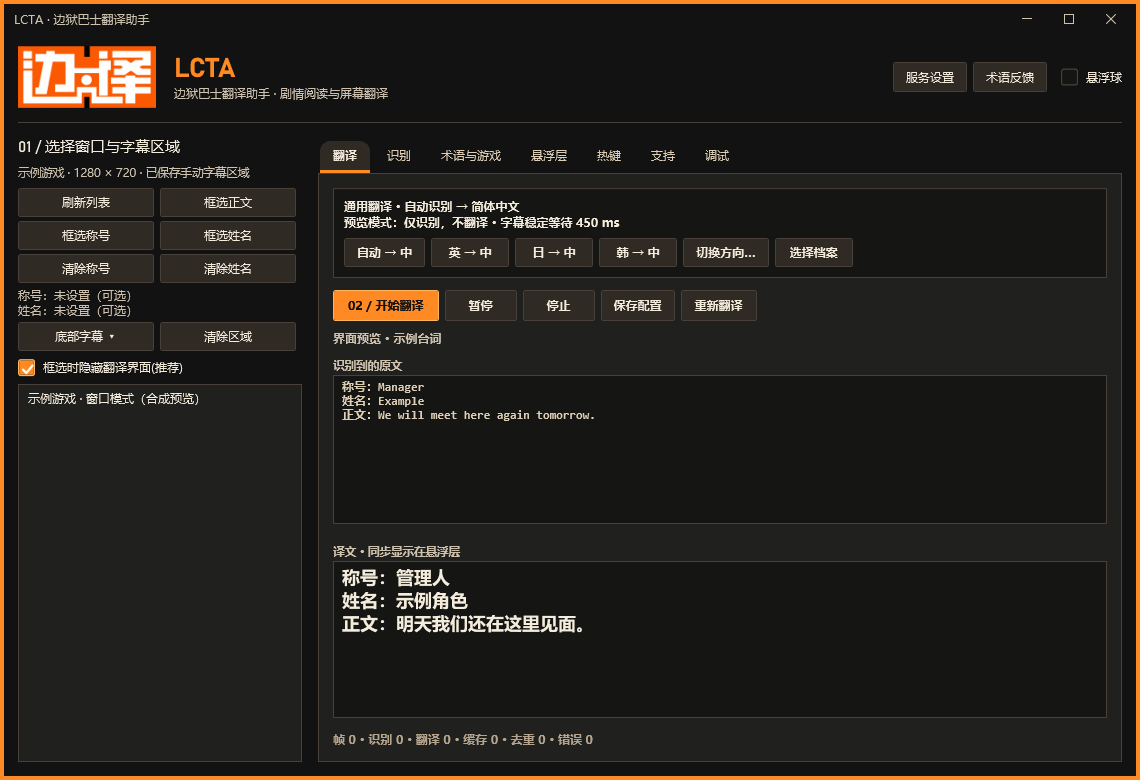
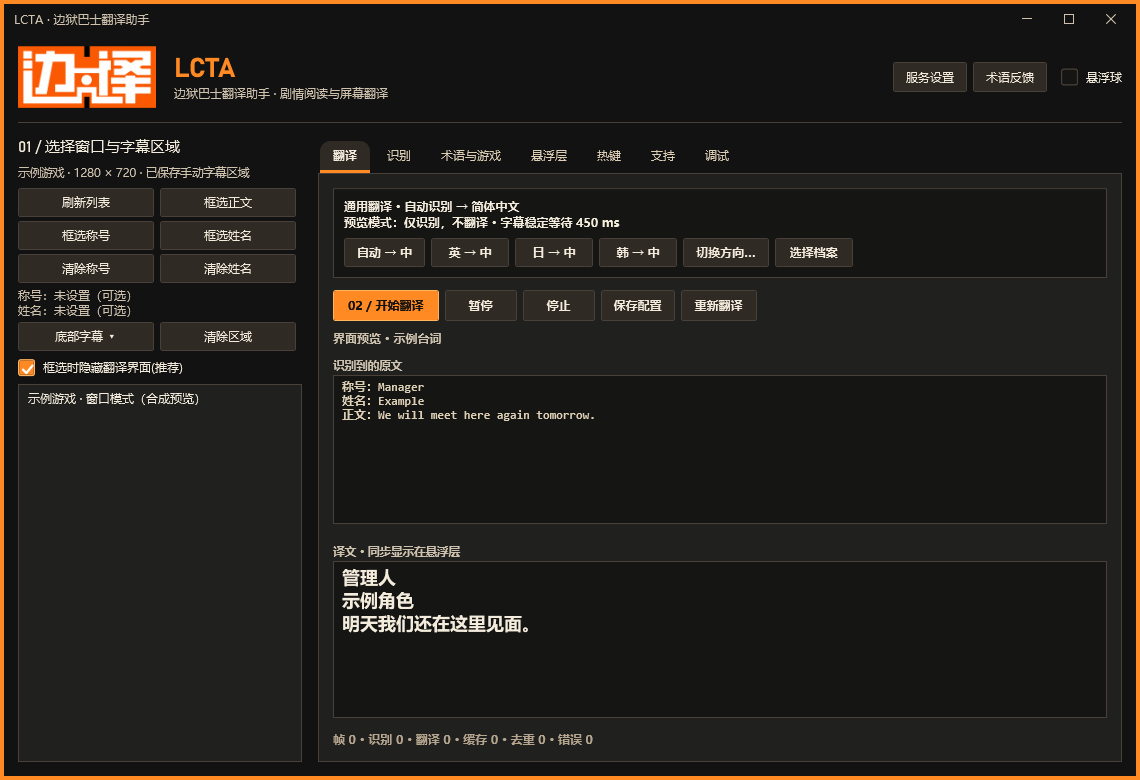
Fix legacy role splitting and remove labels from translated output

Changed region(s): [[0.2763, 0.7077, 0.5219, 0.8308]]

diff --git a/tools/Regression/DialogueFieldChecks.cs b/tools/Regression/DialogueFieldChecks.cs
@@ -31,6 +31,14 @@ internal static class DialogueFieldChecks
         Program.Check(DialogueFields.Format("管理人", "但丁", "测试台词") == "称号：管理人\n姓名：但丁\n正文：测试台词", "fields: explicit three-line output");
         Program.Check(DialogueFields.Format("", "", "网页正文") == "网页正文", "fields: plain translation stays plain");
         Program.Check(DialogueFields.Format("管理人", "", "测试") == "称号：管理人\n姓名：\n正文：测试", "fields: missing name is not invented");
+        Program.Check(DialogueFields.LegacySpeaker("管理人|グンテ") == ("管理人", "グンテ"), "fields: legacy half-width separator");
+        var normalized = OcrCorrections.Apply("管理人｜グンテ", "ja", "limbus-company", "speaker", rules);
+        var parsed = DialogueFields.LegacySpeaker(normalized);
+        Program.Check(parsed == ("管理人", "グンテ"), "fields: legacy separator after NFKC normalization");
+        Program.Check(OcrCorrections.Apply(parsed.Name, "ja", "limbus-company", "name", rules) == "ダンテ", "fields: legacy name corrected after split");
+        Program.Check(DialogueFields.Translated("管理人", "但丁", "测试台词") == "管理人\n但丁\n测试台词", "fields: translation keeps content without labels");
+        Program.Check(DialogueFields.Translated("", "但丁", "测试台词") == "但丁\n测试台词", "fields: translation omits empty role rows");
+        Program.Check(DialogueFields.Translated("", "", "网页正文") == "网页正文", "fields: plain translated output has no labels");
 
         var root = Path.Combine(scratch, "three-regions");
         await using (var session = new AppSession(root))
@@ -103,6 +111,48 @@ internal static class DialogueFieldChecks
         var fresh = await Next();
         Program.Check(!fresh.FromCache && fresh.NameTranslation == "良秀" && translator.Calls == 3, "fields: retranslate bypasses cache for three-field result");
         await pipeline.StopAsync();
+
+        var legacyRecognizer = new LegacyRoleRecognizer();
+        var legacyTranslator = new FieldTranslator();
+        var legacyResults = new ConcurrentQueue<PipelineUpdate>();
+        await using var legacy = new TranslationPipeline(new()
+        {
+            RegionProvider = () => new(40, 0, 100, 80),
+            SpeakerRegionProvider = () => new(0, 0, 40, 80),
+            Capture = r => new()
+            {
+                Width = r.Width,
+                Height = r.Height,
+                SourceRegion = r,
+                CapturedAt = DateTimeOffset.Now,
+                Bgra = Enumerable.Repeat((byte)80, r.Width * r.Height * 4).ToArray()
+            },
+            Recognizer = legacyRecognizer,
+            Translator = legacyTranslator,
+            Languages = () => new("ja", "zh-Hans"),
+            CorrectOcr = (text, field) => OcrCorrections.Apply(text, "ja", "limbus-company", field, rules),
+            Profile = () => new([new("管理人", "管理人"), new("ダンテ", "但丁")]),
+            Options = new() { OcrScale = 1, PollIntervalMs = 15, ForceRefreshMs = 0, TextSettleMs = 0, MaskOwnWindows = false }
+        });
+        legacy.Updated += u => { if (u.Status == PipelineStatus.Translated) legacyResults.Enqueue(u); };
+        legacy.Start();
+        async Task<PipelineUpdate> NextLegacy()
+        {
+            var end = Environment.TickCount64 + 4000;
+            while (Environment.TickCount64 < end)
+            { if (legacyResults.TryDequeue(out var u)) return u; await Task.Delay(15); }
+            throw new TimeoutException("legacy role fields");
+        }
+        var oldFields = await NextLegacy();
+        Program.Check(oldFields.TitleSource == "管理人" && oldFields.NameSource == "ダンテ", "fields: legacy OCR lines split before normalization and name correction");
+        Program.Check(oldFields.TitleTranslation == "管理人" && oldFields.NameTranslation == "但丁" && legacyTranslator.Calls == 1,
+            "fields: legacy combined region translates both fields without model guessing");
+        legacyRecognizer.Combined = true;
+        legacy.InvalidateTranslation();
+        var oneLine = await NextLegacy();
+        Program.Check(oneLine.TitleSource == "管理人" && oneLine.NameSource == "ダンテ" && oneLine.FromCache,
+            "fields: already normalized combined OCR line preserves both fields and cache");
+        await legacy.StopAsync();
     }
 
     private static WindowInfo Window(string process) => new()
@@ -150,5 +200,25 @@ internal static class DialogueFieldChecks
         public int Calls;
         public Task<string> TranslateAsync(TranslationRequest request, CancellationToken cancellationToken = default)
         { Interlocked.Increment(ref Calls); return Task.FromResult("测试台词"); }
+    }
+
+    private sealed class LegacyRoleRecognizer : ITextRecognizer
+    {
+        public string Id => "legacy-role-test";
+        public string LanguageTag => "ja";
+        public volatile bool Combined;
+        public Task<OcrResult> RecognizeAsync(Frame frame, CancellationToken cancellationToken = default)
+        {
+            var text = frame.Width == 40 ? (Combined ? new[] { "管理人|グンテ" } : new[] { "管理人", "グンテ" }) : new[] { "N社の装備。" };
+            return Task.FromResult(new OcrResult
+            {
+                Lines = text.Select(s => new OcrLine(s, new(0, 0, 10, 8), [])).ToArray(),
+                RecognizerId = Id,
+                LanguageTag = LanguageTag,
+                SourceWidth = frame.Width,
+                SourceHeight = frame.Height,
+                Duration = TimeSpan.Zero
+            });
+        }
     }
 }

diff --git a/src/GuGuGaGaTranslator.Core/Pipeline/TranslationPipeline.cs b/src/GuGuGaGaTranslator.Core/Pipeline/TranslationPipeline.cs
@@ -498,14 +498,17 @@ public sealed class TranslationPipeline : IAsyncDisposable
         _lastRecognizedAt = DateTimeOffset.Now;
 
         var sourceText = TextNormalizer.Tidy(_settings.CorrectOcr(ocr.Text, "body"));
-        var speakerSource = speakerOcr is null ? "" : _settings.CorrectOcr(OcrCorrections.Speaker(speakerOcr, _settings.Languages().From), "speaker");
+        var speakerSource = speakerOcr is null ? "" : OcrCorrections.Speaker(speakerOcr, _settings.Languages().From);
         var (titleSource, nameSource) = DialogueFields.LegacySpeaker(speakerSource);
         if (separateRoles)
         {
-            titleSource = TextNormalizer.Tidy(_settings.CorrectOcr(titleOcr?.Text ?? "", "title"));
-            nameSource = TextNormalizer.Tidy(_settings.CorrectOcr(nameOcr?.Text ?? "", "name"));
-            speakerSource = titleSource + "｜" + nameSource;
+            titleSource = titleOcr?.Text ?? "";
+            nameSource = nameOcr?.Text ?? "";
         }
+        // 先分字段再纠错，旧合并选区也使用称号和姓名各自的规则。
+        titleSource = TextNormalizer.Tidy(_settings.CorrectOcr(titleSource, "title"));
+        nameSource = TextNormalizer.Tidy(_settings.CorrectOcr(nameSource, "name"));
+        speakerSource = separateRoles || speakerRegion is not null ? titleSource + "｜" + nameSource : "";
         var structured = separateRoles || speakerRegion is not null;
         var identity = speakerSource.Length == 0 ? sourceText : speakerSource + "\n" + sourceText;
         var skip = SkipReason(sourceText, _settings.Languages().From);

diff --git a/tools/InteractionChecks/Program.cs b/tools/InteractionChecks/Program.cs
@@ -311,8 +311,8 @@ internal static partial class Program
                 && Field<TextBlock>(overlay,"_speakerText").FontSize < Field<TextBlock>(overlay,"_translationText").FontSize,
                 "speaker translated separately with smaller text");
             overlay.ShowDialogue("原文", "测试台词", new(250,200,420,90), "管理人", "但丁", true);
-            Check(Field<TextBlock>(overlay,"_speakerText").Text == "称号：管理人\n姓名：但丁"
-                && Field<TextBlock>(overlay,"_translationText").Text == "正文：测试台词", "overlay explicit title name body labels");
+            Check(Field<TextBlock>(overlay,"_speakerText").Text == "管理人\n但丁"
+                && Field<TextBlock>(overlay,"_translationText").Text == "测试台词", "overlay retains role content without field labels");
             overlay.ShowDialogue("原文", "通用译文", new(250,200,420,90), "", "", false);
             Check(Field<TextBlock>(overlay,"_speakerText").Visibility == Visibility.Collapsed
                 && Field<TextBlock>(overlay,"_translationText").Text == "通用译文", "plain overlay omits unused role labels");

diff --git a/src/GuGuGaGaTranslator.Core/Text/DialogueFields.cs b/src/GuGuGaGaTranslator.Core/Text/DialogueFields.cs
@@ -6,12 +6,17 @@ public static class DialogueFields
         structured || title.Length > 0 || name.Length > 0
             ? $"称号：{title}\n姓名：{name}\n正文：{body}" : body;
 
-    public static string Header(string title, string name, bool structured = false) =>
-        structured || title.Length > 0 || name.Length > 0 ? $"称号：{title}\n姓名：{name}" : "";
+    public static string Header(string title, string name) => Join(title, name);
+
+    public static string Translated(string title, string name, string body) => Join(title, name, body);
+
+    private static string Join(params string[] values) =>
+        string.Join("\n", values.Select(s => s.Trim()).Where(s => s.Length > 0));
 
     public static (string Title, string Name) LegacySpeaker(string speaker)
     {
-        var fields = speaker.Split('｜', 2, StringSplitOptions.TrimEntries);
+        // NFKC 会将全角分隔符转为半角，旧选区的两种写法都须读取。
+        var fields = speaker.Split(['｜', '|'], 2, StringSplitOptions.TrimEntries);
         return fields.Length == 2 ? (fields[0], fields[1]) : ("", fields[0]);
     }
 }

diff --git a/src/GuGuGaGaTranslator.App/OverlayWindow.cs b/src/GuGuGaGaTranslator.App/OverlayWindow.cs
@@ -400,9 +400,7 @@ public sealed class OverlayWindow : Window
     public void ShowDialogue(string source, string translation, Int32Rect region,
         string title, string name, bool structured)
     {
-        var fields = structured || title.Length > 0 || name.Length > 0;
-        ShowTranslated(source, fields ? "正文：" + translation : translation, region,
-            DialogueFields.Header(title, name, fields));
+        ShowTranslated(source, translation, region, DialogueFields.Header(title, name));
     }
 
     /// <summary>Reposition the overlay for a region in physical screen pixels, following the target window.</summary>

diff --git a/src/GuGuGaGaTranslator.App/MainWindow.xaml.cs b/src/GuGuGaGaTranslator.App/MainWindow.xaml.cs
@@ -1792,7 +1792,7 @@ public partial class MainWindow : Window
                 return;
             }
 
-            TranslationBox.Text = DialogueFields.Format(update.TitleTranslation, update.NameTranslation, update.Translation, update.StructuredDialogue);
+            TranslationBox.Text = DialogueFields.Translated(update.TitleTranslation, update.NameTranslation, update.Translation);
 
             var region = _session.ResolveRegion();
             if (region is { } rect)

diff --git a/docs/USAGE.md b/docs/USAGE.md
@@ -2,7 +2,7 @@
 
 [返回项目首页](../README.md)
 
-## LCTA 1.6.4 的操作变化
+## LCTA 1.6.5 的操作变化
 
 默认沿用旧配置目录，也可迁移到自行选择的位置。
 
@@ -18,22 +18,22 @@
 
 1. 选择游戏窗口，点击“框选正文”，只框住台词，留出多行字幕所需的高度。
 2. 点击“框选称号”，只框住称号，例如“管理人”。点击“框选姓名”，只框住姓名，例如“ダンテ”。三个选区分别保存，不依赖文字出现的行数和顺序。
-3. 两个区域分别保存，随窗口移动和尺寸变化。切换目标后恢复对应目标的设置。
-4. 原文与译文按“称号：”“姓名：”“正文：”显示。悬浮层用橙色小字显示称号和姓名，正文用白色大字并自动换行。角色区是可选的，网页与普通字幕可只框选正文。分区模式允许“はい”等两个字符的短回复；自行增加最短文字阈值仍会生效。
+3. 三个区域分别保存，随窗口移动和尺寸变化。切换目标后恢复对应目标的设置。
+4. 原文框保留“称号：”“姓名：”“正文：”标签，方便核对识别。译文框和悬浮层只显示实际内容，不显示这些标签。悬浮层用橙色小字显示称号和姓名，正文用白色大字并自动换行。角色区是可选的，网页与普通字幕可只框选正文。分区模式允许“はい”等两个字符的短回复；自行增加最短文字阈值仍会生效。
 
 正文选区与角色区重合时，角色区会从正文 OCR 输入中排除，避免把名字当作台词重复翻译。选择角色区时应完整覆盖文字，并尽量避开正文和其他按钮。改变游戏布局后，需要重新框选。
 
-旧的合并角色选区仍可读取；首次设置独立称号或姓名区后，新选区接替旧选区。升级后建议将三块区域重新框选一次。缺少某个字段时留空，不补猜测的人名。
+旧的合并角色选区仍可读取，并且同样使用称号和姓名各自的纠错规则；首次设置独立称号或姓名区后，新选区接替旧选区。原有区域已完整覆盖文字时可直接使用，位置或范围不合适时再重新框选。缺少某个字段时留空，不补猜测的人名。
 
 输出示例：
 
 ```text
-称号：管理人
-姓名：但丁
-正文：翻译后的台词。
+管理人
+但丁
+翻译后的台词。
 ```
 
-边狱巴士“自动底部预设”分别设置两块区域。布局或比例不同请手动调整；自动预设不会覆盖已保存的手动正文区域。
+边狱巴士“自动底部预设”分别设置三块区域。布局或比例不同请手动调整；自动预设不会覆盖已保存的手动正文区域。
 
 在“识别 → 管理 OCR 纠错规则”添加或修正识别错字。`title` 作用于称号，`name` 作用于姓名，`body` 作用于正文；旧的 `speaker` 规则同时作用于称号和姓名。指定语言和游戏标识后才生效。“整字段”要求整个字段与错字一致，适合专名纠错。
 

diff --git a/tools/release-notes-lcta.md b/tools/release-notes-lcta.md
@@ -1,22 +1,21 @@
-# LCTA 1.6.4
+# LCTA 1.6.5
 
-称号、姓名和正文改为三个独立识别区域，分别框选、保存和翻译。
+修复旧角色选区把称号和姓名合在姓名字段中的问题。
 
-- 使用“称号：”“姓名：”“正文：”格式显示原文与译文。
-- 正文 OCR 排除角色区域，避免名字重复混入台词。
-- 修复但丁的日语姓名被识别为“グンテ”后无法匹配术语的问题，新增仅用于该游戏日语姓名的整字段纠错。
-- 纠错规则支持称号、姓名与正文分别设置，并保留旧规则兼容。
-- 保留旧配置、密钥、个人术语与合并角色选区的读取兼容。
-- 调整最小窗口下的译文区高度。
+- 同时读取半角和全角分隔符，先拆分字段再进行称号、姓名纠错。
+- 旧合并选区也能正确将“グンテ”纠正为“ダンテ”，并匹配“但丁”。
+- 译文框和悬浮层去掉“称号：”“姓名：”“正文：”标签，保留实际内容与排版层次。
+- 原文框保留字段标签，方便检查识别结果。
+- 保留原有选区、服务配置、密钥和个人术语。
 
 ## 使用
 
-先点击“框选正文”，再分别点击“框选称号”“框选姓名”。每块只框对应文字；游戏布局改变后重新框选。修改后点击“重新翻译”生成新结果。
+退出旧程序后升级，再开始翻译。原选区已经完整覆盖文字时可直接使用；修改选区或需要生成新结果时点击“重新翻译”。
 
 ## 下载
 
-- 安装版：`LCTA-Setup-1.6.4.exe`，退出旧程序后安装到原登记目录。
-- 便携版：`LCTA-win-x64-1.6.4.zip`，完整解压并保留 DLL、模型与词库。
-- 校验文件：`SHA256SUMS-1.6.4.txt`。
+- 安装版：`LCTA-Setup-1.6.5.exe`，安装到原登记目录。
+- 便携版：`LCTA-win-x64-1.6.5.zip`，完整解压并保留 DLL、模型与词库。
+- 校验文件：`SHA256SUMS-1.6.5.txt`。
 
-已用用户提供的实际日语画面检查三个字段的识别与翻译，并执行回归、交互及安装升级检查。具体范围见 `docs/VERIFICATION.md`。
+211 项回归、223 项交互检查通过。已读取用户当前游戏窗口的旧角色选区复现并核对修复，并用实际截图完成在线翻译。完整范围见 `docs/VERIFICATION.md`。

diff --git a/docs/VERIFICATION.md b/docs/VERIFICATION.md
@@ -19,6 +19,16 @@ dotnet run --project tools/InteractionChecks -c Release -- .artifacts/interactio
 
 `--capture` 会显示临时合成窗口，并使用独立配置和 mock 翻译，不读取现有配置、不调用在线服务。GitHub Actions 默认执行不抓屏的交互检查。
 
+## 旧角色选区修复（1.6.5，2026-10-12）
+
+- 回归：211 项通过，新增半角分隔符、字符规范化后的字段拆分、旧选区姓名纠错、旧格式的缓存结果与无标签译文。
+- 交互：223 项通过，检查悬浮层保留角色内容并移除标签，继续执行完整捕获、最小窗口、关闭与重启检查。
+- 实际窗口：读取用户当前保存的旧角色选区，OCR 原始结果为两行“管理人”“グンテ”；规范化后的旧组合值为“管理人|グンテ”。修复后拆分为称号“管理人”、姓名“ダンテ”。此检查不修改用户选区，也不调用在线服务。
+- 实际截图：使用先前提供的但丁日语画面，通过旧合并选区执行完整识别与在线翻译。输出“管理人”“但丁”及独立正文；译文没有字段标签。
+- 外观：检查正常窗口、900 × 660 最小窗口及悬浮层，原文保留字段标签，译文只显示内容。
+
+本机记录：`.artifacts/regression-1.6.5.txt`、`interactions-1.6.5.txt`、`legacy-dante-1.6.5.txt`、`current-role-1.6.5.txt`、`ui-1.6.5`。真实截图与配置未提交。发布时继续执行安装、升级与文件保留检查。
+
 ## 三字段更新（1.6.4，2026-10-12）
 
 - 回归：202 项通过，新增称号、姓名、正文的独立保存与恢复，旧规则迁移，整字段姓名纠错，重合区域排除，缓存结果保留角色字段与姓名变化。

diff --git a/docs/LCTA-1.6.5-WORKLOG.md b/docs/LCTA-1.6.5-WORKLOG.md
@@ -1,0 +1,18 @@
+# 1.6.5 修复记录
+
+## 问题原因
+
+用户仍在使用旧的合并角色选区。程序识别出“管理人”和“グンテ”后，用全角竖线将两行连接。字符规范化会把全角竖线改成半角竖线，而旧的拆分函数只接受全角形式，于是整段内容被当作姓名。姓名纠错要求整个字段匹配“グンテ”，此时也无法生效。
+
+这属于 1.6.4 的旧配置兼容问题，不是服务连接失败。通过用户当前的游戏窗口和保存选区复现，原始 OCR 已读出两行角色信息。
+
+## 修改
+
+- 兼容半角和全角分隔符。
+- 先拆分角色字段，再分别应用称号与姓名的纠错规则，旧合并选区和独立选区使用同一处理方式。
+- 译文框和悬浮层只显示角色信息与正文，去掉字段标签和空角色行；原文框保留标签以便核对。
+- 保留原选区、服务配置和个人术语。原有选区完整覆盖文字时，不需要为本次修复重新框选。
+
+## 验收
+
+使用用户当前保存的角色选区核对“管理人”“グンテ”的拆分和纠错；使用此前的实际游戏截图核对完整翻译，姓名输出为“但丁”。回归和交互数量见 [验证与发布](VERIFICATION.md)。截图、账户配置和在线调用记录不随源码发布。

diff --git a/CHANGELOG.md b/CHANGELOG.md
@@ -2,6 +2,13 @@
 
 发行文件见 [Releases](https://github.com/wl8695573-blip/GuGuGaGaTranslator/releases)。
 
+## 1.6.5 — 2026-10-12
+
+- 修复旧合并角色选区的分隔符经过字符规范化后，称号和姓名被合并到姓名字段的问题。
+- 旧选区也在拆分后分别应用称号和姓名纠错，恢复“グンテ → ダンテ → 但丁”的匹配。
+- 译文框和悬浮层去掉“称号：”“姓名：”“正文：”标签，保留实际内容、分行和字号层次；原文框保留标签用于核对。
+- 增加旧选区、半角分隔符、规范化和缓存结果的回归检查。
+
 ## 1.6.4 — 2026-10-12
 
 - 称号、姓名与正文使用三个独立选区，分别保存并随目标窗口缩放；保留旧合并选区的读取兼容。
